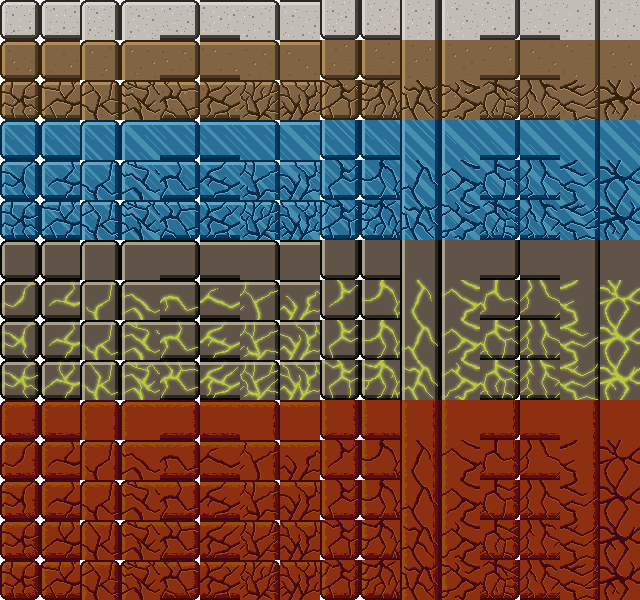
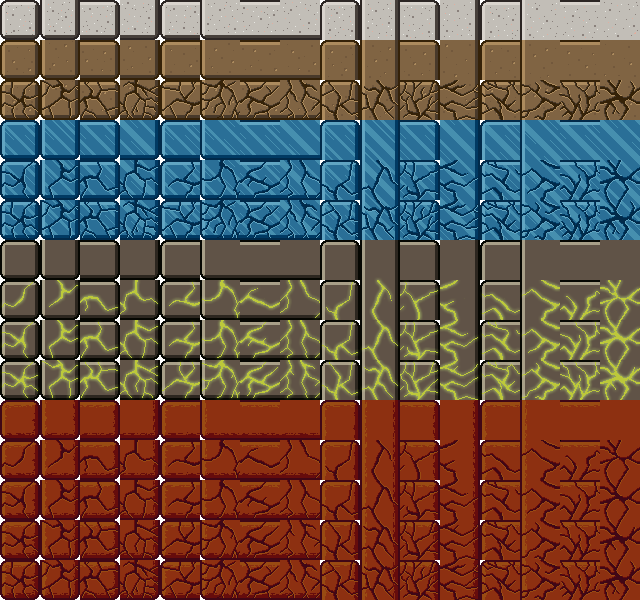
Updated brick generation

diff --git a/client/modules/Brick.js b/client/modules/Brick.js
@@ -1,60 +1,31 @@
 import {GAME_CONTAINER, TILE_SIZE} from "./Constants.js";
+import Tile from "./Tile.js";
 export default class Brick{
-    #type
     #health
-    constructor(x,y, type, container) {
-        this.brick = this.createBrick();
-        this.#type = type
-        this.#health = type
+    #tiles
+    constructor(x,y, type, container,w,h) {
+
+        this.height = h*TILE_SIZE
+        this.width = w*TILE_SIZE
         this.x = x
         this.y = y
-        this.height = TILE_SIZE
-        this.width = TILE_SIZE
+
+        this.brick = this.createBrick();
+
+        this.type = type
+        this.#health = type
         this.inPlay = true
-        this.xPos = 0;
-        this.yPos = this.calculatePos();
+        this.#tiles = []
+        this.createTiles();
+        // this.xPos = 0;
+        // this.yPos = this.calculatePos();
         this.container = container
-    }
-    // Brick placment in game
-    get left() {
-        return parseFloat(getComputedStyle(this.brick).getPropertyValue("--x"))
-    }
-    set left(value) {
-        this.brick.style.setProperty("--x", value)
+
     }
 
-    get top() {
-        return parseFloat(getComputedStyle(this.brick).getPropertyValue("--y"))
-    }
-    set top(value) {
-        this.brick.style.setProperty("--y", value)
-    }
-    // Tile texture placment in sprite sheet
-    get xPos() {
-        return parseFloat(getComputedStyle(this.brick).getPropertyValue("--xPos"))
-    }
-    set xPos(value) {
-        this.brick.style.setProperty("--xPos", value)
-    }
-
-    get yPos() {
-        return parseFloat(getComputedStyle(this.brick).getPropertyValue("--yPos"))
-    }
-    set yPos(value) {
-        this.brick.style.setProperty("--yPos", value)
-    }
-    // calculate initai yPosition in sprite sheet
-    calculatePos(){
-        let position = 0
-        for(let i = this.#type; i>0; i--){
-            position += i*TILE_SIZE
-        }
-        return position
-    }
     // Triggers a hit on the brick, taking it out of play if at 0 health or
     // changing its color otherwise.
     hit(){
-        console.log(this.#health)
         this.#health --
         if(this.#health<0){
             this.inPlay=false;
@@ -63,15 +34,52 @@ export default class Brick{
             this.yPos+=40
         }
     }
+    // Creates the brick and sets height/ width and position on Game screen
     createBrick(){
         let brick = document.createElement("div");
-        brick.classList.add("brick")
-        // GAME_CONTAINER.appendChild(brick)
+        brick.classList.add("brick");
+        brick.style.setProperty("width", `${this.width}px`);
+        brick.style.setProperty("height", `${this.height}px`);
+        brick.style.setProperty("top", `${this.y}px`);
+        brick.style.setProperty("left", `${this.x}px`);
         return brick
     }
+    // Creates tiles and add to the brick
+    createTiles(){
+        for(let i= 0; i< this.width/TILE_SIZE * this.height/TILE_SIZE; i++){
+            let tile = new Tile
+            this.brick.appendChild(tile.tile)
+            this.#tiles.push(tile)
+        }
+    }
+
     draw(){
         this.container.appendChild(this.brick)
         this.top = this.y
         this.left = this.x
+        // For each tile find the position
+        this.#tiles.forEach(tile => {         
+            tile.calcPosition();  
+        });
+        // calculate the right tile
+        this.#tiles.forEach(currentTile => {  
+            let tileValue = 0;    
+            this.#tiles.forEach(target=>{
+                // Check if tile to north->west->east->south
+                // resource https://gamedevelopment.tutsplus.com/tutorials/how-to-use-tile-bitmasking-to-auto-tile-your-level-layouts--cms-25673
+                if(target.pos.bottom === currentTile.pos.top && target.pos.right === currentTile.pos.right){
+                    tileValue+=1
+                }else if(target.pos.right === currentTile.pos.left&& target.pos.top === currentTile.pos.top){
+                    tileValue+=2
+                }else if(target.pos.left === currentTile.pos.right&& target.pos.top === currentTile.pos.top){
+                    tileValue+=4
+                }else if(target.pos.top === currentTile.pos.bottom && target.pos.right === currentTile.pos.right){
+                    tileValue+=8
+                }
+            })
+            console.log("Value", tileValue)
+            currentTile.addTexture(tileValue, this.type);
+        });
     }
+
 }

diff --git a/client/modules/LevelMaker.js b/client/modules/LevelMaker.js
@@ -1,5 +1,6 @@
 import Brick from "./Brick.js";
 import { GAME_CONTAINER, TILE_SIZE, VIRTUAL_WIDTH } from "./Constants.js";
+import { fetchJson } from "./utils.js";
 
 export default class LevelMaker{
     createMap(level){
@@ -7,17 +8,18 @@ export default class LevelMaker{
         container.classList.add("brickContainer")
         GAME_CONTAINER.appendChild(container)
         this.bricks = [];
-        let rows = 5;
-        let columns = 25;
-        let offsetx = (VIRTUAL_WIDTH - columns*TILE_SIZE) /2
-
-        for(let x=0; x<columns; x++){
-            for(let y =0; y<rows; y++){
-                let b = new Brick(x*TILE_SIZE + offsetx,y*TILE_SIZE,1, container)
-                this.bricks.push(b)
-                b.draw();
+        // Get blueprint for level and generate bricks
+        fetchJson(`../levels/${level}.json`)
+        .then((res)=>{
+            // range over all bricks(types)
+            for (let type in res.bricks){
+                res.bricks[type].forEach(pos => {
+                    let b = new Brick(pos.x*TILE_SIZE ,pos.y*TILE_SIZE,type, container, pos.w, pos.h)
+                    this.bricks.push(b)
+                    b.draw();
+                });
             }
-        }
+        })
         return this.bricks
     }
 }

diff --git a/client/modules/Tile.js b/client/modules/Tile.js
@@ -1,0 +1,42 @@
+import {GAME_CONTAINER, TILE_SIZE} from "./Constants.js";
+
+export default class Tile{
+    constructor(){
+        this.tile = this.createTile();
+        this.image= "url(../graphics/bricks.png)"
+    }
+        // Tile texture placment in sprite sheet
+    get xPos() {
+        return parseFloat(getComputedStyle(this.brick).getPropertyValue("--xPos"))
+    }
+    set xPos(value) {
+        this.brick.style.setProperty("--xPos", value)
+    }
+
+    get yPos() {
+        return parseFloat(getComputedStyle(this.brick).getPropertyValue("--yPos"))
+    }
+    set yPos(value) {
+        this.brick.style.setProperty("--yPos", value)
+    }
+    calcPosition(){
+      this.pos=this.tile.getBoundingClientRect() ; 
+    }
+    // Create html element for tile
+    createTile(){
+        let tile = document.createElement("div");
+        tile.classList.add("tile")
+        return tile
+    }
+    addTexture(tileValue, type){
+        let yPosition = 0
+        for(let i = type; i>0; i--){
+            yPosition += i*TILE_SIZE
+        }
+        let x = tileValue * TILE_SIZE;
+        this.tile.style.backgroundImage = this.image; 
+        this.tile.style.backgroundPosition = `-${x}px  -${yPosition}px`
+    }
+
+
+}

diff --git a/client/modules/states/ServeState.js b/client/modules/states/ServeState.js
@@ -1,7 +1,7 @@
 import Ball from "../Ball.js";
 import {GAME_CONTAINER} from "../Constants.js";
 import LevelMaker from "../LevelMaker.js";
-import {getHtml} from "../utils/getHtml.js";
+import {getHtml} from "../utils.js";
 
 export default class ServeState {
 
@@ -15,7 +15,7 @@ export default class ServeState {
             this.createGameElements();
             // TEMPORARY CREATE GAME ELEMENTS
             let level = new LevelMaker();
-            this.bricks = level.createMap();
+            this.bricks = level.createMap(1);
         }
     }
     update(delta) {
@@ -48,7 +48,7 @@ export default class ServeState {
     }
 
     createGameElements() {
-        getHtml("./modules/configs/gameSetup.html")
+        getHtml("./configs/gameSetup.html")
             .then((res)=>GAME_CONTAINER.insertAdjacentHTML("afterbegin", res))
     }
 }
